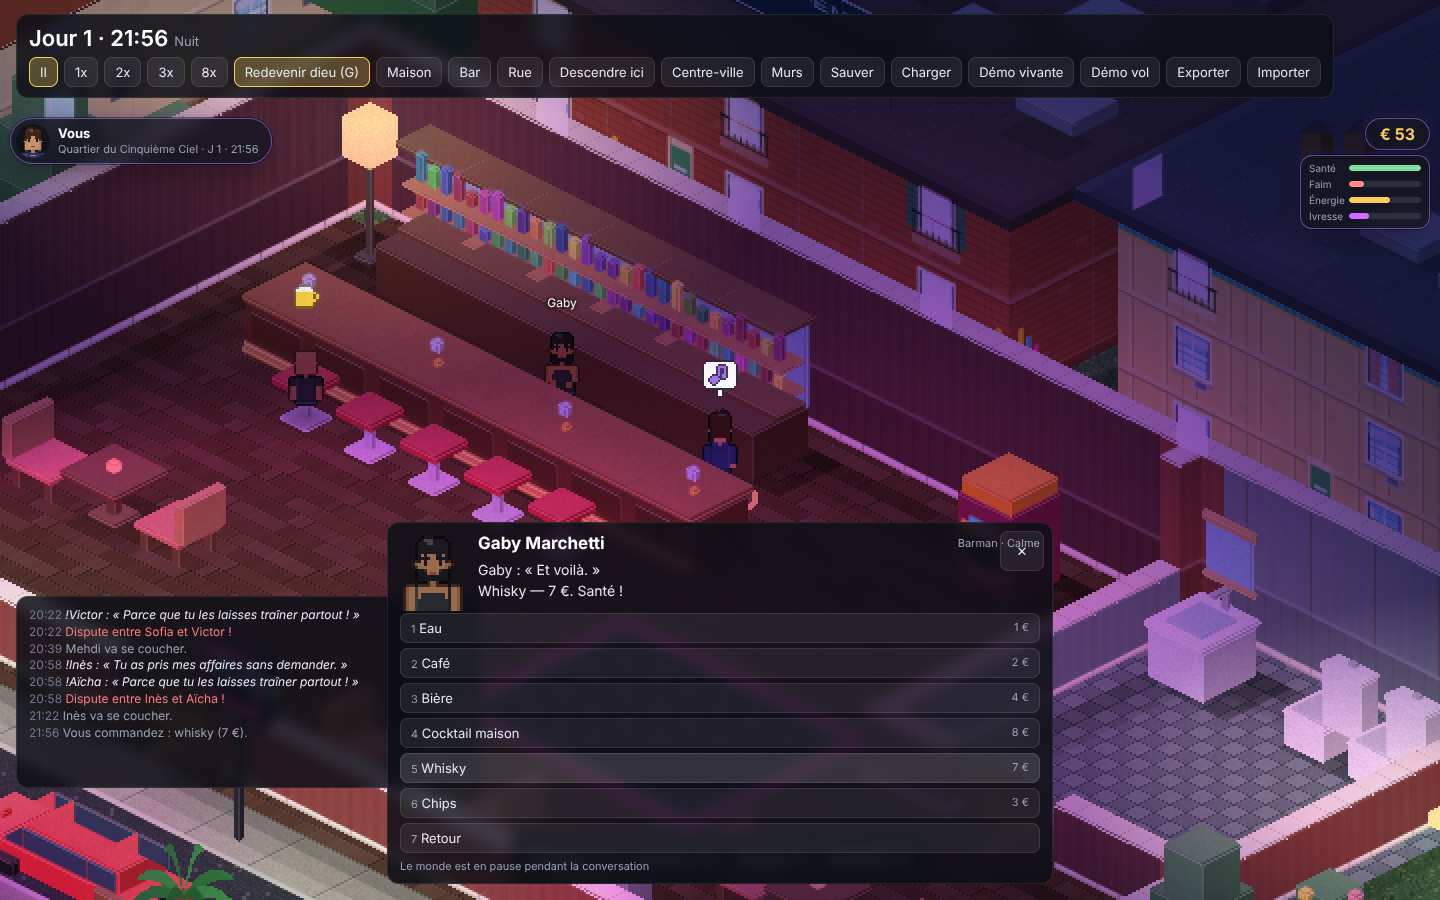
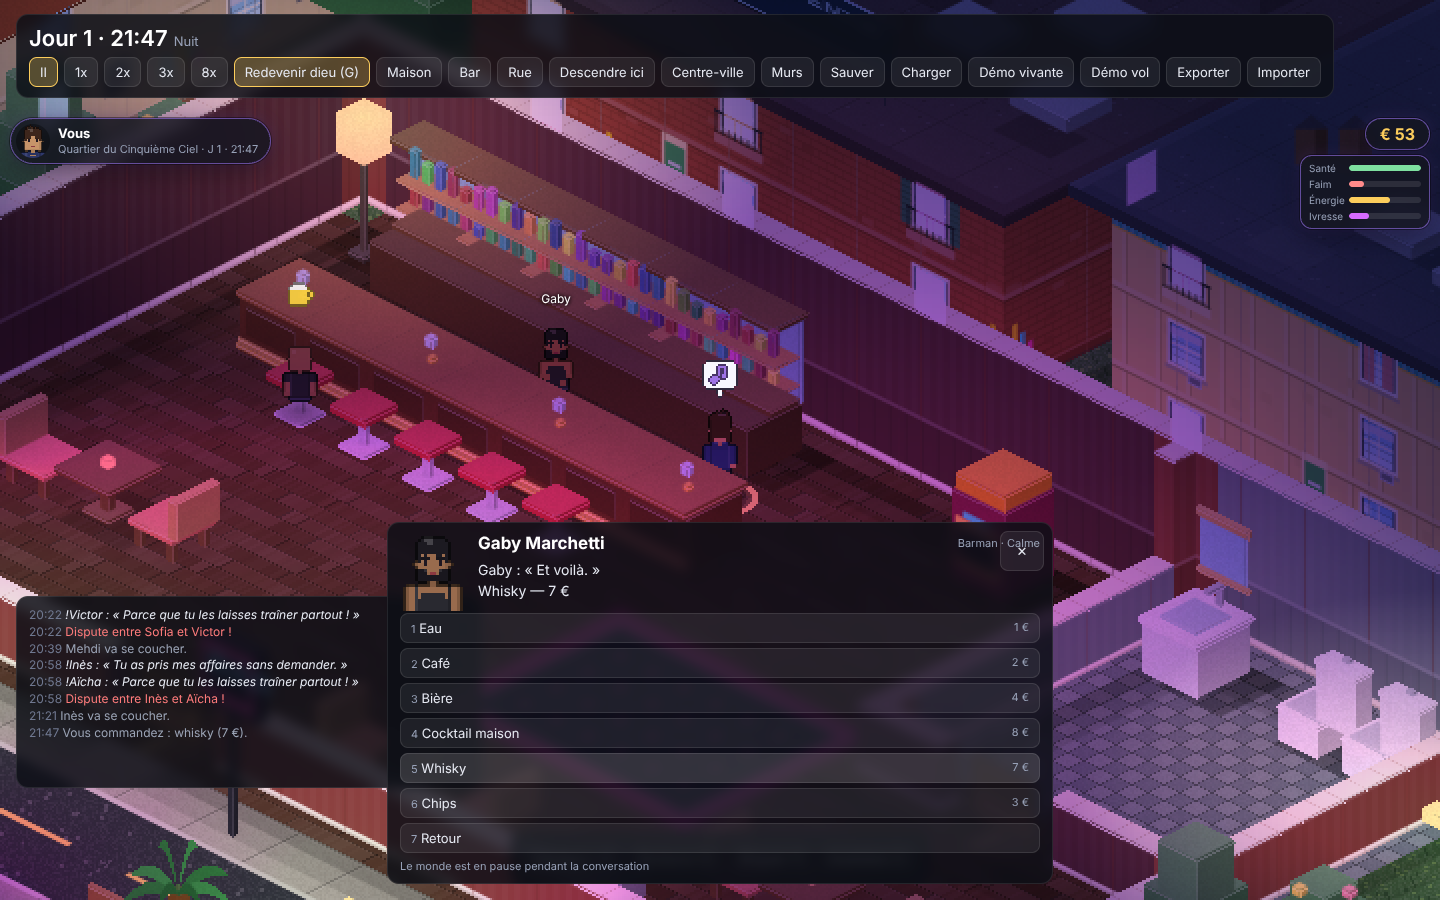
V2 phase B : dialogues RPG compacts en bas d'écran (catégories, texte qui s'écrit, A valide / B retour, croix pour choisir)
Claude-Session: https://claude.ai/code/session_01TgHL2ERFFt3nTP8cEL1RNQ

diff --git a/src/ui/human.ts b/src/ui/human.ts
@@ -20,13 +20,14 @@ export const HUMAN_CSS = `
 #dlg{left:50%;bottom:16px;transform:translateX(-50%);width:640px;max-width:calc(100vw - 24px);display:none;z-index:5}
 #dlg .head{display:flex;gap:12px;align-items:flex-start} #dlg img.pp{width:66px;height:78px;image-rendering:pixelated;object-fit:contain}
 #dlg .txt{white-space:pre-line;line-height:1.5;min-height:46px;margin:6px 0 8px;font-size:14px}
-#dlg .choices{display:grid;grid-template-columns:1fr 1fr;gap:6px} #dlg .choices .btn{text-align:left} #dlg .hint{color:#98a2b8;font-size:11px;margin-left:6px}
+#dlg .choices .btn.sel{outline:2px solid #fccd5c;outline-offset:-2px;background:rgba(252,205,92,.14)} #dlg .choices{display:grid;grid-template-columns:1fr 1fr;gap:6px} #dlg .choices .btn{text-align:left} #dlg .hint{color:#98a2b8;font-size:11px;margin-left:6px}
 #dlg .menu .btn{display:flex;justify-content:space-between;width:100%;margin-bottom:5px}
 #inv{left:50%;top:50%;transform:translate(-50%,-50%);width:420px;max-width:calc(100vw - 24px);display:none;max-height:80vh;overflow:auto;z-index:4}
 #ctx{left:50%;top:40%;transform:translate(-50%,-50%);min-width:260px;display:none;z-index:4} #ctx .btn{display:block;width:100%;text-align:left;margin:4px 0}
 #flash{position:fixed;inset:0;pointer-events:none;opacity:0;z-index:20;background:radial-gradient(circle,rgba(255,236,170,.95),rgba(255,214,110,.55) 45%,rgba(255,214,110,0) 75%);transition:opacity .45s ease-out}
 .drunk{filter:none}
 `;
+const CATS: Record<string, { label: string; ids: string[] }> = { talk: { label: 'Discuter', ids: ['how', 'chat', 'joke', 'dark', 'secret', 'sheet'] }, love: { label: 'Séduire', ids: ['flirt', 'date', 'couple', 'evening', 'breakup'] }, trade: { label: 'Échanger', ids: ['gift', 'give', 'ask_money', 'steal', 'wake'] }, fight: { label: 'Provoquer', ids: ['punch'] } };
 export class HumanUi {
   sig = ''; building = ''; open: SimChar | null = null; barMode = ''; prevSpeed = 1; last = ''; ctxItems: I.Interactable[] = []; hudAcc = 0;
   el!: { hhud: HTMLElement; prompt: HTMLElement; dlg: HTMLElement; inv: HTMLElement; ctx: HTMLElement; flash: HTMLElement };
@@ -38,13 +39,31 @@ export class HumanUi {
   // ---- dialogue
   dialogueOpen() { return this.open !== null; }
   openDialogue(npc: SimChar) {
-    if (this.open) return; I.noteTalk(this.w, npc); this.open = npc; this.barMode = ''; this.prevSpeed = this.g.speedIndex; this.g.setSpeed(0); this.hideContext(); this.hideInv();
+    if (this.open) return; I.noteTalk(this.w, npc); this.open = npc; this.barMode = ''; this.sel = 0; this.typed = ''; this.prevSpeed = this.g.speedIndex; this.g.setSpeed(0); this.hideContext(); this.hideInv();
     const av = this.w.avatar; npc.facing = this.w.dirFrom({ x: av.pos.x - npc.pos.x, y: av.pos.y - npc.pos.y }, npc.facing);
     const d = I.dialogueOpen(this.w, npc); this.last = `${npc.first} : « ${d.line} »`; this.render(); this.el.dlg.style.display = 'block';
     Nav.open({ id: 'dlg', close: () => this.close(), back: () => { if (this.barMode) { this.barMode = ''; this.render(); return true; } return false; } });
   }
   close() { Nav.closed('dlg'); if (!this.open) return; this.open = null; this.el.dlg.style.display = 'none'; this.g.setSpeed(this.prevSpeed || 1); }
   private choices: { id: string; arg?: string; enabled: boolean }[] = [];
+  sel = 0; private typed = ''; private typer = 0; private typing = false; private navT = 0;
+  /** Texte qui s'écrit vite (≈ 70 caractères/s) ; un toucher sur le texte ou A l'affiche d'un coup. */
+  private typeText() {
+    const el = this.el.dlg.querySelector<HTMLElement>('.txt'); if (!el) return; const full = this.last; window.clearInterval(this.typer);
+    if (this.typed === full) { el.textContent = full; this.typing = false; return; }
+    this.typed = full; this.typing = true; let n = 0; el.textContent = ''; this.typer = window.setInterval(() => { n += 3; el.textContent = full.slice(0, n); if (n >= full.length) { window.clearInterval(this.typer); this.typing = false; } }, 40);
+    el.onclick = () => this.finishTyping();
+  }
+  finishTyping(): boolean { if (!this.typing) return false; window.clearInterval(this.typer); this.typing = false; const el = this.el.dlg.querySelector<HTMLElement>('.txt'); if (el) el.textContent = this.last; return true; }
+  /** Bouton A pendant une conversation : termine le texte, sinon valide l'option en surbrillance. */
+  dialogueA() { if (!this.open || this.finishTyping()) return; this.pickDialogue(this.sel); }
+  private focusSel() { const bs = this.el.dlg.querySelectorAll<HTMLButtonElement>('button[data-i]'); if (!bs.length) return; this.sel = Math.max(0, Math.min(bs.length - 1, this.sel)); bs.forEach((b, i) => b.classList.toggle('sel', i === this.sel)); }
+  /** Croix / joystick haut-bas ou flèches : déplace la surbrillance des choix. */
+  navDialogue(dt: number) {
+    if (!this.open) return; this.navT -= dt; if (this.navT > 0) return; const a = this.g.analog; const k = this.g.keys; let d = 0;
+    if (k.has('arrowdown') || (a.mag > 0.5 && a.y > 0.6)) d = 1; else if (k.has('arrowup') || (a.mag > 0.5 && a.y < -0.6)) d = -1; if (!d) return; this.navT = 0.22;
+    const n = this.el.dlg.querySelectorAll('button[data-i]').length; if (n) { this.sel = (this.sel + d + n) % n; this.focusSel(); }
+  }
   render() {
     const npc = this.open!; const w = this.w; const cv = this.g.chars[npc.id]; const rl = npc.kind === 'resident' ? I.relationLabelToPlayer(w, npc) : npc.job;
     let body = '';
@@ -55,19 +74,27 @@ export class HumanUi {
       const items = Object.entries(w.avatar.inventory).filter(([, n]) => n > 0);
       body = `<div class="menu">${items.map(([id, n]) => this.opt('give_item:' + id, I.ITEMS[id]?.label ?? id, `×${n}`, true)).join('') || '<span class="dim">Vous n\'avez rien à offrir.</span>'}${this.opt('back', 'Retour', '', true)}</div>`;
     } else {
-      const d = I.dialogueOpen(w, npc);
-      const all = [...d.choices]; all.splice(Math.max(0, all.length - 1), 0, { id: 'sheet', label: 'Consulter sa fiche', hint: 'profil, relations, souvenirs', enabled: true } as any);
-      body = `<div class="choices">${all.map((c) => this.opt(c.id, c.label, c.hint ?? '', c.enabled)).join('')}</div>`;
+      const d = I.dialogueOpen(w, npc); const all = [...d.choices]; all.splice(Math.max(0, all.length - 1), 0, { id: 'sheet', label: 'Consulter sa fiche', hint: 'profil, relations, souvenirs', enabled: true } as any);
+      const catOf = (id: string) => Object.entries(CATS).find(([, c]) => c.ids.includes(id))?.[0];
+      if (this.barMode.startsWith('cat:')) {
+        const k = this.barMode.slice(4); const items = all.filter((c) => catOf(c.id) === k);
+        body = `<div class="choices">${items.map((c) => this.opt(c.id, c.label, c.hint ?? '', c.enabled)).join('')}${this.opt('back', 'Retour', 'B', true)}</div>`;
+      } else if (all.length <= 5) body = `<div class="choices">${all.map((c) => this.opt(c.id, c.label, c.hint ?? '', c.enabled)).join('')}</div>`;
+      else {
+        const direct = all.filter((c) => !catOf(c.id) && c.id !== 'bye'); const cats = Object.entries(CATS).filter(([k]) => all.some((c) => catOf(c.id) === k)); const bye = all.find((c) => c.id === 'bye');
+        body = `<div class="choices">${direct.map((c) => this.opt(c.id, c.label, c.hint ?? '', c.enabled)).join('')}${cats.map(([k, c]) => this.opt('cat:' + k, c.label + ' ▸', '', true)).join('')}${bye ? this.opt(bye.id, bye.label, 'B', bye.enabled) : ''}</div>`;
+      }
     }
     this.el.dlg.innerHTML = `<button class="btn nvx" data-nvx="1" aria-label="Fermer" style="position:absolute;right:8px;top:8px;min-width:44px;min-height:40px">✕</button><div class="head"><img class="pp" src="${cv.assets.portrait.toDataURL()}"><div style="flex:1"><div class="row" style="justify-content:space-between"><b style="font-size:17px;color:#fff">${esc(npc.name)}</b><span class="dim small">${esc(rl)} · ${EMOTIONS[npc.emotion] ?? ''}${npc.drunk > 15 ? ' · éméché' : ''}</span></div>
       <div class="txt">${esc(this.last)}</div></div></div>${body}<div class="small dim" style="margin-top:6px">Le monde est en pause pendant la conversation</div>`;
-    this.el.dlg.querySelectorAll<HTMLButtonElement>('button[data-i]').forEach((b) => (b.onclick = () => this.pickDialogue(Number(b.dataset.i)))); this.el.dlg.querySelector('[data-nvx]')!.addEventListener('click', () => Nav.back());
+    this.el.dlg.querySelectorAll<HTMLButtonElement>('button[data-i]').forEach((b) => (b.onclick = () => this.pickDialogue(Number(b.dataset.i)))); this.typeText(); this.focusSel(); this.el.dlg.querySelector('[data-nvx]')!.addEventListener('click', () => Nav.back());
   }
   private opt(id: string, label: string, hint: string, enabled: boolean) { const i = this.choices.length; this.choices.push({ id, enabled }); return `<button class="btn" data-i="${i}" ${enabled ? '' : 'disabled'}><span><span class="dim small">${i + 1}</span> ${esc(label)}</span><span class="hint">${esc(hint)}</span></button>`; }
   pickDialogue(i: number) {
     const npc = this.open; const c = this.choices[i]; if (!npc || !c || !c.enabled) return; const w = this.w;
-    if (this.barMode) {
-      if (c.id === 'back') { this.barMode = ''; this.render(); return; }
+    if (c.id === 'back') { this.barMode = ''; this.render(); return; }
+    if (c.id.startsWith('cat:')) { this.barMode = c.id; this.sel = 0; this.render(); return; }
+    if (this.barMode === 'bar' || this.barMode === 'gift') {
       if (this.barMode === 'bar') { const r = I.orderDrink(w, c.id); this.last = `${npc.first} : « ${r.ok ? 'Et voilà.' : 'Désolé.'} »\n${r.msg}`; }
       else { const id = c.id.split(':')[1]; const r = I.choose(w, npc, 'give_item', id); this.last = r.line; this.barMode = ''; }
       this.render(); return;
@@ -75,8 +102,8 @@ export class HumanUi {
     if (c.id === 'sheet') { this.close(); this.g.hud.fiche.open(npc.id); return; }
     const r = I.choose(w, npc, c.id); this.last = r.line;
     if (r.close) { this.close(); return; }
-    if (r.openBar) this.barMode = 'bar'; else if (r.openGift) this.barMode = 'gift';
-    this.render();
+    if (r.openBar) this.barMode = 'bar'; else if (r.openGift) this.barMode = 'gift'; else this.barMode = '';
+    this.sel = 0; this.render();
   }
   // ---- menu contextuel
   contextOpen() { return this.el.ctx.style.display === 'block'; }

diff --git a/src/ui/hud.ts b/src/ui/hud.ts
@@ -94,7 +94,7 @@ export class Hud {
   get w() { return this.g.world; }
 
   onMode(m: 'god' | 'human') { this.mobile?.updateLabels(); if (m === 'human') this.mobile?.onSelect(-1); this.root.classList.toggle('human', m === 'human'); this.modeBtn.textContent = m === 'human' ? 'Redevenir dieu (G)' : 'Descendre (G)'; this.modeBtn.classList.toggle('on', m === 'human'); }
-  openDialogue(n: SimChar) { this.human.openDialogue(n); } closeDialogue() { this.human.close(); } dialogueOpen() { return this.human.dialogueOpen(); } pickDialogue(i: number) { this.human.pickDialogue(i); }
+  openDialogue(n: SimChar) { this.human.openDialogue(n); } closeDialogue() { this.human.close(); } dialogueOpen() { return this.human.dialogueOpen(); } dialogueA() { this.human.dialogueA(); } pickDialogue(i: number) { this.human.pickDialogue(i); }
   contextOpen() { return this.human.contextOpen(); } showContext(l: any) { this.human.showContext(l); } hideContext() { this.human.hideContext(); } pickContext(i: number) { this.human.pickContext(i); }
   toggleInventory() { this.human.toggleInventory(); } flash(k: 'descend' | 'ascend') { this.human.flash(k); } cancelPower() { this.powerMode = ''; this.powerFirst = -1; }
   diagOpen = false; panelFor = -1;
@@ -155,7 +155,7 @@ export class Hud {
     this.syncPowers();
   }
   update(dt: number) {
-    this.human.update(dt); this.mobile.update(dt); this.demoGuide.update(dt); this.cityHud.update(dt); this.el.pause.style.display = this.g.speedIndex === 0 && !this.human.dialogueOpen() ? 'block' : 'none';
+    this.human.update(dt); this.human.navDialogue(dt); this.mobile.update(dt); this.demoGuide.update(dt); this.cityHud.update(dt); this.el.pause.style.display = this.g.speedIndex === 0 && !this.human.dialogueOpen() ? 'block' : 'none';
     this.acc += dt; this.fiche.update(dt); this.hv2.update(dt); this.mmap.update(dt); this.fightUi.update(dt); this.gbar.update(dt); this.deco.update(dt); this.journal.update(dt);
     if (this.toastT > 0) { this.toastT -= dt; if (this.toastT < 0.5) this.el.toast.style.opacity = String(Math.max(0, this.toastT * 2)); }
     if (this.helpT < 1e8) { this.helpT -= dt; if (this.helpT < 0) { this.el.help.style.display = 'none'; this.helpT = 1e9; } }

diff --git a/src/ui/mobile.ts b/src/ui/mobile.ts
@@ -56,7 +56,7 @@ const CSS = `
 @keyframes rot{0%,20%{transform:rotate(0)}60%,100%{transform:rotate(-90deg)}}
 #ui.mobile #fps{left:calc(var(--sl) + 14px);top:calc(var(--st) + 62px);font-size:11px;text-shadow:0 0 3px #000,0 0 3px #000}
 #ui.mobile #toast{top:calc(var(--st) + 52px);font-size:12px;max-width:60vw} #ui.mobile #prompt{font-size:11px}
-#ui.mobile #dlg{box-sizing:border-box;bottom:auto;top:calc(var(--st) + 6px);width:min(640px,calc(100vw - var(--sl) - var(--sr) - 24px));max-height:calc(var(--vh,100vh) - var(--st) - 12px);overflow:auto;touch-action:pan-y;font-size:12px;padding:8px 10px}
+#ui.mobile #dlg{box-sizing:border-box;top:auto;bottom:calc(var(--sb) + 6px);width:min(580px,calc(100vw - var(--sl) - var(--sr) - 270px));max-height:calc(var(--vh,100vh) - var(--st) - var(--sb) - 12px);overflow:auto;touch-action:pan-y;font-size:12px;padding:8px 10px}
 #ui.mobile #dlg .txt{font-size:13px;min-height:0;margin:2px 0 6px} #ui.mobile #dlg .choices{gap:5px} #ui.mobile #dlg .btn{min-height:44px} #ui.mobile #dlg img.pp{width:44px;height:52px} #ui.mobile #dlg .small.dim:last-child{display:none}
 #ui.mobile #inv,#ui.mobile #ctx{touch-action:pan-y;max-height:calc(var(--vh,100vh) - 24px);overflow:auto} #ui.mobile #ctx{top:50%;min-width:min(300px,70vw)} #ui.mobile #ctx .btn{min-height:42px}
 #ui.mobile #help{max-height:calc(var(--vh,100vh) - 20px);overflow:auto;font-size:12px;touch-action:pan-y} #ui.mobile #tag{font-size:11px}

diff --git a/src/view/scene.ts b/src/view/scene.ts
@@ -456,7 +456,7 @@ export class GameScene extends Phaser.Scene {
   /** Bouton A : action principale. Humain : interagir. Dieu : choisir le personnage visé (puis fiche / pouvoir armé). */
   actionA() {
     if (Nav.blocksWorld()) return;
-    if (this.hud.dialogueOpen()) return;
+    if (this.hud.dialogueOpen()) { this.hud.dialogueA(); return; }
     if (this.mode === 'human') { this.interact(); return; }
     let id = this.selectedId;
     if (id < 0 || !this.hud.powerMode) { const near = this.nearestToCenter(); if (near >= 0) { if (near === this.selectedId && !this.hud.powerMode) { this.hud.mobile.openFiche(); return; } id = near; } }
